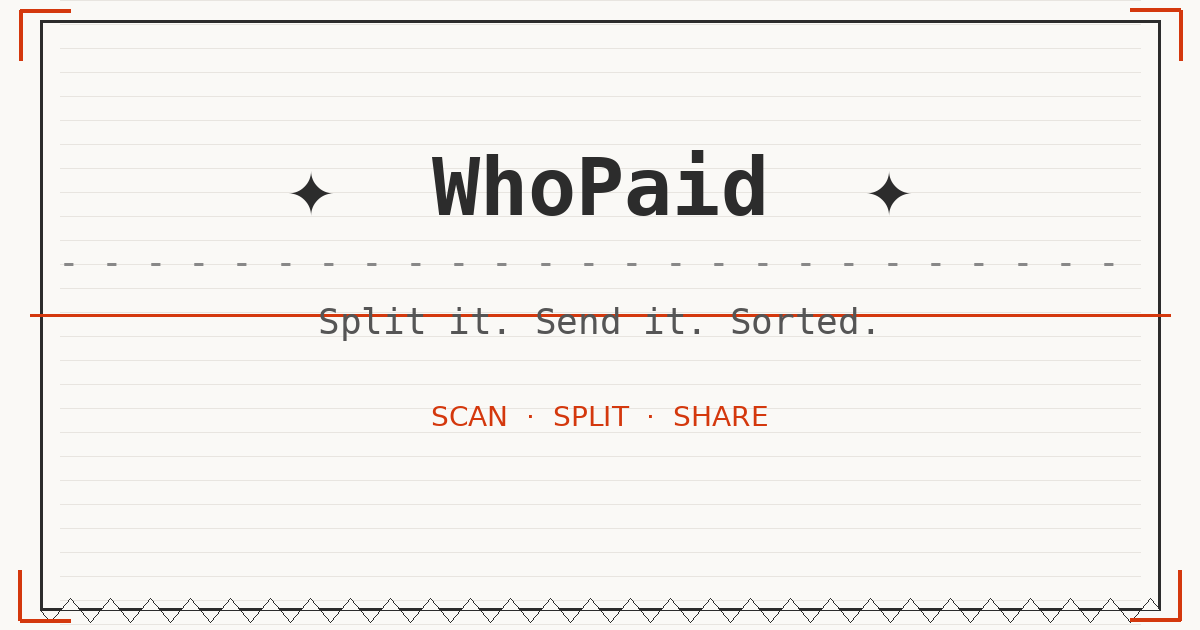
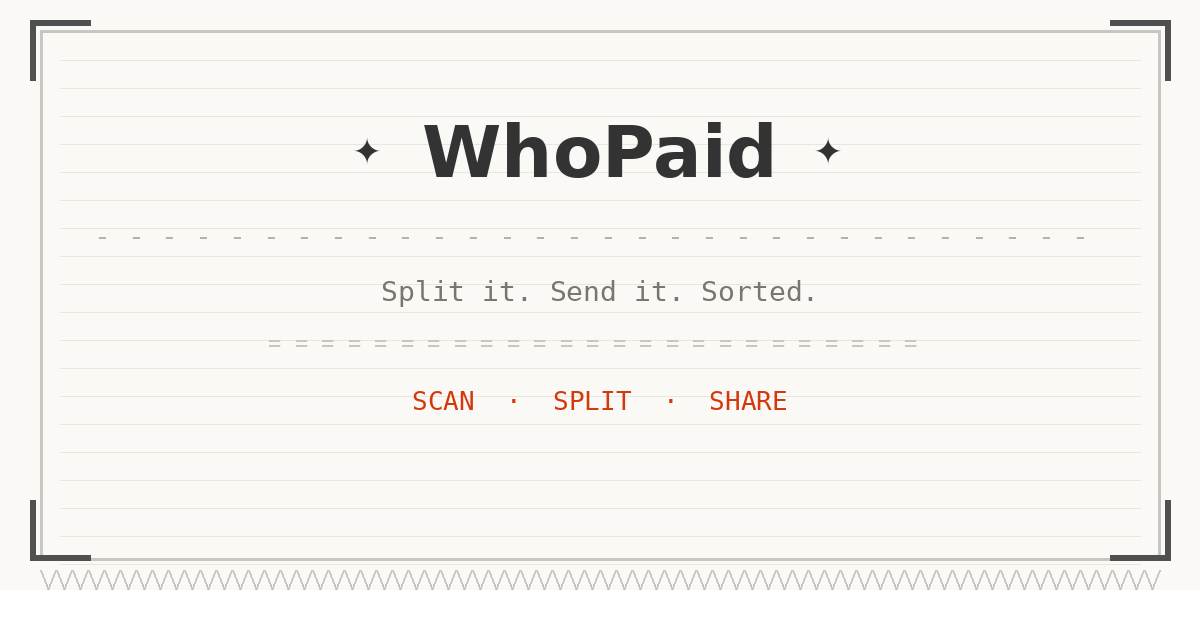
Improve iMessage preview image to look more like a real receipt
- Remove the red horizontal bar that looked out of place
- Make corner scan lines thicker and more prominent (5px dark gray)
- Add a cleaner, thicker receipt border
- Add equals-sign divider for more receipt authenticity
- Add generation script for future edits

https://claude.ai/code/session_01JCx98VD4wg7rqXT8AgCNXP

diff --git a/generate-og-image.py b/generate-og-image.py
@@ -1,0 +1,160 @@
+#!/usr/bin/env python3
+"""Generate the OG preview image for WhoPaid."""
+
+from PIL import Image, ImageDraw, ImageFont
+import os
+
+WIDTH = 1200
+HEIGHT = 630
+
+# Colors
+PAPER = (250, 249, 246)       # #faf9f6
+PAPER_LINE = (232, 230, 225)  # #e8e6e1
+INK = (51, 51, 51)            # #333333
+ACCENT = (212, 56, 13)        # #d4380d
+CORNER_COLOR = (80, 80, 80)   # Dark gray for scan corners
+
+img = Image.new('RGB', (WIDTH, HEIGHT), PAPER)
+draw = ImageDraw.Draw(img)
+
+# --- Receipt paper lines (horizontal ruled lines) ---
+line_spacing = 28
+for y in range(60, HEIGHT - 60, line_spacing):
+    draw.line([(60, y), (WIDTH - 60, y)], fill=PAPER_LINE, width=1)
+
+# --- Thicker border (outer receipt edge) ---
+border_width = 3
+border_color = (200, 198, 193)  # Subtle gray border
+for i in range(border_width):
+    draw.rectangle(
+        [(40 + i, 30 + i), (WIDTH - 40 - i, HEIGHT - 70 - i)],
+        outline=border_color
+    )
+
+# --- Corner scan marks (L-shaped brackets, thick and obvious) ---
+corner_len = 60
+corner_w = 5
+margin_x = 30
+margin_y = 20
+
+# Top-left
+draw.rectangle([(margin_x, margin_y), (margin_x + corner_len, margin_y + corner_w)], fill=CORNER_COLOR)
+draw.rectangle([(margin_x, margin_y), (margin_x + corner_w, margin_y + corner_len)], fill=CORNER_COLOR)
+
+# Top-right
+draw.rectangle([(WIDTH - margin_x - corner_len, margin_y), (WIDTH - margin_x, margin_y + corner_w)], fill=CORNER_COLOR)
+draw.rectangle([(WIDTH - margin_x - corner_w, margin_y), (WIDTH - margin_x, margin_y + corner_len)], fill=CORNER_COLOR)
+
+# Bottom-left
+draw.rectangle([(margin_x, HEIGHT - 70 - corner_w), (margin_x + corner_len, HEIGHT - 70)], fill=CORNER_COLOR)
+draw.rectangle([(margin_x, HEIGHT - 70 - corner_len), (margin_x + corner_w, HEIGHT - 70)], fill=CORNER_COLOR)
+
+# Bottom-right
+draw.rectangle([(WIDTH - margin_x - corner_len, HEIGHT - 70 - corner_w), (WIDTH - margin_x, HEIGHT - 70)], fill=CORNER_COLOR)
+draw.rectangle([(WIDTH - margin_x - corner_w, HEIGHT - 70 - corner_len), (WIDTH - margin_x, HEIGHT - 70)], fill=CORNER_COLOR)
+
+# --- Torn paper edge at bottom ---
+tear_y = HEIGHT - 60
+tear_height = 20
+tooth_width = 16
+x = 40
+while x < WIDTH - 40:
+    x1 = x
+    x2 = min(x + tooth_width, WIDTH - 40)
+    mid = (x1 + x2) // 2
+    # Draw triangle tooth
+    draw.polygon([(x1, tear_y), (mid, tear_y + tear_height), (x2, tear_y)], fill=PAPER)
+    # Draw the tooth outline
+    draw.line([(x1, tear_y), (mid, tear_y + tear_height)], fill=border_color, width=2)
+    draw.line([(mid, tear_y + tear_height), (x2, tear_y)], fill=border_color, width=2)
+    x += tooth_width
+
+# Fill below torn edge with white (background)
+draw.rectangle([(0, tear_y + tear_height), (WIDTH, HEIGHT)], fill=(255, 255, 255))
+
+# --- Try to load fonts, fall back to default ---
+def load_font(name, size):
+    paths = [
+        f"/usr/share/fonts/truetype/{name}",
+        f"/usr/share/fonts/{name}",
+        f"/usr/local/share/fonts/{name}",
+    ]
+    for p in paths:
+        if os.path.exists(p):
+            return ImageFont.truetype(p, size)
+    # Try system default
+    try:
+        return ImageFont.truetype("DejaVuSans-Bold.ttf", size)
+    except:
+        return ImageFont.load_default()
+
+def load_mono_font(size):
+    mono_fonts = [
+        "dejavu/DejaVuSansMono.ttf",
+        "liberation/LiberationMono-Regular.ttf",
+        "truetype/dejavu/DejaVuSansMono.ttf",
+    ]
+    for name in mono_fonts:
+        paths = [
+            f"/usr/share/fonts/truetype/{name}",
+            f"/usr/share/fonts/{name}",
+        ]
+        for p in paths:
+            if os.path.exists(p):
+                return ImageFont.truetype(p, size)
+    try:
+        return ImageFont.truetype("DejaVuSansMono.ttf", size)
+    except:
+        return ImageFont.load_default()
+
+# Load fonts
+title_font = load_font("dejavu/DejaVuSans-Bold.ttf", 72)
+mono_font = load_mono_font(28)
+mono_font_sm = load_mono_font(22)
+accent_font = load_mono_font(26)
+
+# --- Title: ✦  WhoPaid  ✦ ---
+title_text = "WhoPaid"
+bbox = draw.textbbox((0, 0), title_text, font=title_font)
+tw = bbox[2] - bbox[0]
+title_x = (WIDTH - tw) // 2
+title_y = 110
+
+draw.text((title_x, title_y), title_text, fill=INK, font=title_font)
+
+# Draw diamond stars on either side
+star = "✦"
+star_font = load_font("dejavu/DejaVuSans.ttf", 36)
+draw.text((title_x - 70, title_y + 20), star, fill=INK, font=star_font)
+draw.text((title_x + tw + 35, title_y + 20), star, fill=INK, font=star_font)
+
+# --- Dashed divider ---
+divider_y = 220
+dash_text = "- " * 30
+bbox = draw.textbbox((0, 0), dash_text, font=mono_font)
+dw = bbox[2] - bbox[0]
+draw.text(((WIDTH - dw) // 2, divider_y), dash_text, fill=(180, 178, 173), font=mono_font)
+
+# --- Tagline ---
+tagline = "Split it. Send it. Sorted."
+bbox = draw.textbbox((0, 0), tagline, font=mono_font)
+tgw = bbox[2] - bbox[0]
+draw.text(((WIDTH - tgw) // 2, 275), tagline, fill=(120, 118, 113), font=mono_font)
+
+# --- Equals divider ---
+eq_y = 330
+eq_text = "= " * 25
+bbox = draw.textbbox((0, 0), eq_text, font=mono_font_sm)
+eqw = bbox[2] - bbox[0]
+draw.text(((WIDTH - eqw) // 2, eq_y), eq_text, fill=(200, 198, 193), font=mono_font_sm)
+
+# --- SCAN · SPLIT · SHARE ---
+cta = "SCAN  ·  SPLIT  ·  SHARE"
+bbox = draw.textbbox((0, 0), cta, font=accent_font)
+ctaw = bbox[2] - bbox[0]
+draw.text(((WIDTH - ctaw) // 2, 385), cta, fill=ACCENT, font=accent_font)
+
+# --- Save ---
+output_path = os.path.join(os.path.dirname(os.path.abspath(__file__)), "og-image.png")
+img.save(output_path, "PNG", optimize=True)
+print(f"Generated {output_path} ({WIDTH}x{HEIGHT})")
